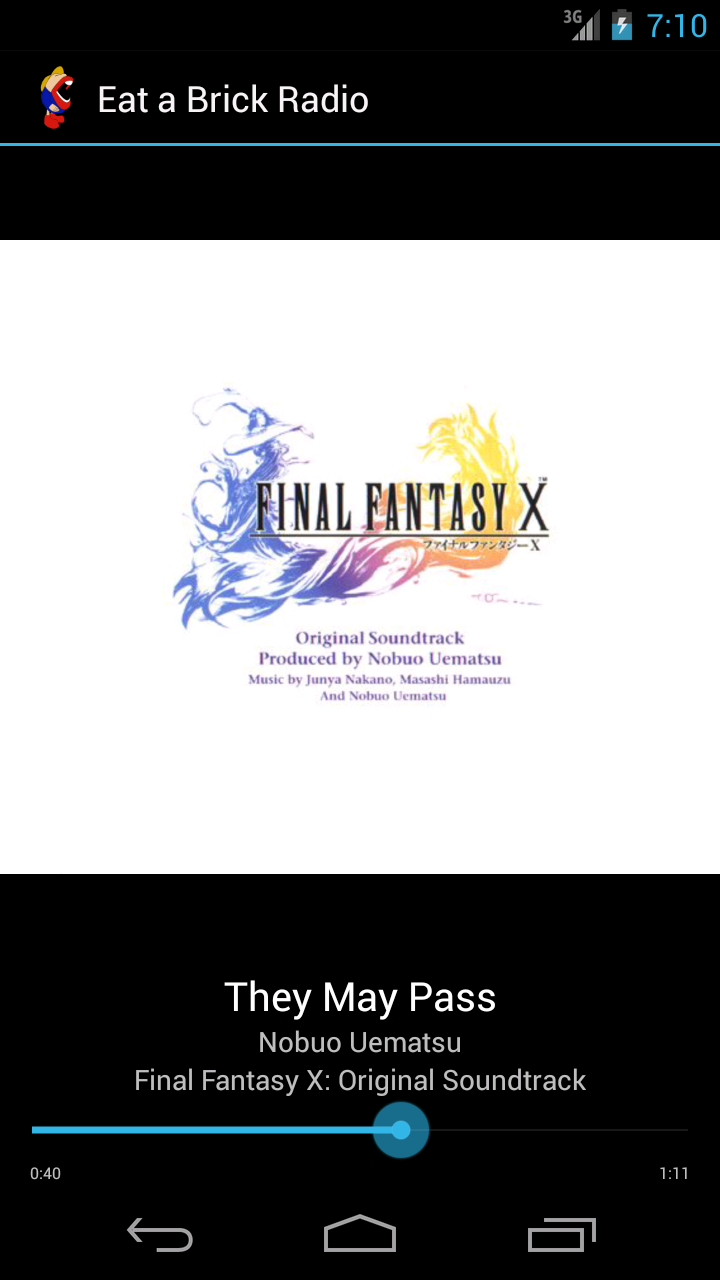
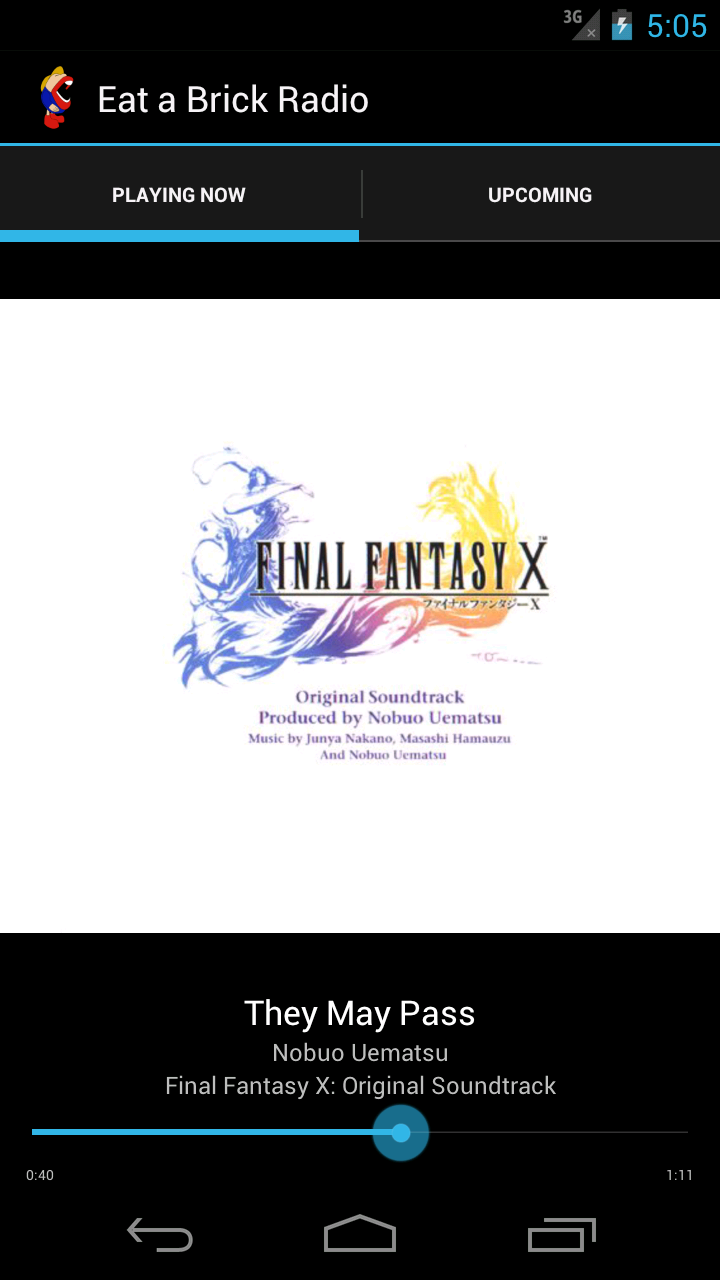
use fragments, implement second tab

diff --git a/src/org/eatabrick/radio/MainActivity.java b/src/org/eatabrick/radio/MainActivity.java
@@ -1,42 +1,38 @@
 package org.eatabrick.radio;
 
 import android.os.Bundle;
-import android.support.v4.app.FragmentTransaction;
 import android.util.Log;
-import android.widget.ImageView;
-import android.widget.SeekBar;
-import android.widget.TextView;
-import com.actionbarsherlock.app.ActionBar.Tab;
 import com.actionbarsherlock.app.ActionBar;
-import com.actionbarsherlock.app.SherlockActivity;
+import com.actionbarsherlock.app.SherlockFragmentActivity;
 
-public class MainActivity extends SherlockActivity implements ActionBar.TabListener {
-  private static final String TAG = "NowPlayingActivity";
+public class MainActivity extends SherlockFragmentActivity {
+  private static final String TAG = "MainActivity";
+
 
   @Override public void onCreate(Bundle savedInstanceState) {
     super.onCreate(savedInstanceState);
-
-    setContentView(R.layout.playing);
-
-    ((SeekBar) findViewById(R.id.seek)).setEnabled(false);
 
     getSupportActionBar().setNavigationMode(ActionBar.NAVIGATION_MODE_TABS);
 
     ActionBar.Tab tab;
 
-    tab = getSupportActionBar().newTab().setTabListener(this).setText(getString(R.string.tab_now_playing));
+    tab = getSupportActionBar().newTab();
+    tab.setText(getString(R.string.tab_now_playing));
+    tab.setTabListener(new TabListener<NowPlayingFragment> (this, "playing", NowPlayingFragment.class));
     getSupportActionBar().addTab(tab);
+
+    tab = getSupportActionBar().newTab();
+    tab.setText(getString(R.string.tab_play_queue));
+    tab.setTabListener(new TabListener<QueueFragment> (this, "queue", QueueFragment.class));
+    getSupportActionBar().addTab(tab);
+
+    if (savedInstanceState != null) {
+      getSupportActionBar().setSelectedNavigationItem(savedInstanceState.getInt("selectedTab"));
+    }
   }
 
-  @Override public void onTabReselected(Tab tab, FragmentTransaction trans) {
-    Log.d(TAG, "Tab reselected: " + tab.getText());
-  }
-
-  @Override public void onTabSelected(Tab tab, FragmentTransaction trans) {
-    Log.d(TAG, "Tab selected: " + tab.getText());
-  }
-
-  @Override public void onTabUnselected(Tab tab, FragmentTransaction trans) {
-    Log.d(TAG, "Tab unselected: " + tab.getText());
+  @Override protected void onSaveInstanceState(Bundle outState) {
+    super.onSaveInstanceState(outState);
+    outState.putInt("selectedTab", getSupportActionBar().getSelectedTab().getPosition());
   }
 }

diff --git a/src/org/eatabrick/radio/TabListener.java b/src/org/eatabrick/radio/TabListener.java
@@ -1,0 +1,60 @@
+package org.eatabrick.radio;
+
+import android.support.v4.app.Fragment;
+import android.support.v4.app.FragmentManager;
+import android.support.v4.app.FragmentTransaction;
+import android.util.Log;
+import com.actionbarsherlock.app.ActionBar.Tab;
+import com.actionbarsherlock.app.ActionBar;
+import com.actionbarsherlock.app.SherlockFragment;
+import com.actionbarsherlock.app.SherlockFragmentActivity;
+
+public class TabListener<T extends Fragment> implements ActionBar.TabListener {
+  private static final String TAG = "TabListener";
+  private Fragment fragment;
+  private final SherlockFragmentActivity activity;
+  private final String tag;
+  private final Class<T> klass;
+
+  public TabListener(SherlockFragmentActivity activity, String tag, Class<T> klass) {
+    this.activity = activity;
+    this.tag = tag;
+    this.klass = klass;
+  }
+
+  @Override public void onTabReselected(Tab tab, FragmentTransaction trans) {
+    Log.d(TAG, "Tab reselected: " + tab.getText());
+  }
+
+  @Override public void onTabSelected(Tab tab, FragmentTransaction trans) {
+    Log.d(TAG, "Tab selected: " + tab.getText());
+
+    // for some reason the support library gives a garbage transaction
+    if (trans == null) {
+      trans = ((FragmentManager) activity.getSupportFragmentManager()).beginTransaction();
+      trans.commit();
+    }
+
+    if (fragment == null) {
+      fragment = SherlockFragment.instantiate(activity, klass.getName());
+      fragment.setRetainInstance(false);
+      trans.add(android.R.id.content, fragment, tag);
+    } else {
+      trans.attach(fragment);
+    }
+  }
+
+  @Override public void onTabUnselected(Tab tab, FragmentTransaction trans) {
+    Log.d(TAG, "Tab unselected: " + tab.getText());
+
+    // for some reason the support library gives a garbage transaction
+    if (trans == null) {
+      trans = ((FragmentManager) activity.getSupportFragmentManager()).beginTransaction();
+      trans.commit();
+    }
+
+    if (fragment != null) {
+      trans.detach(fragment);
+    }
+  }
+}

diff --git a/src/org/eatabrick/radio/QueueFragment.java b/src/org/eatabrick/radio/QueueFragment.java
@@ -1,0 +1,34 @@
+package org.eatabrick.radio;
+
+import android.app.Activity;
+import android.os.Bundle;
+import android.support.v4.app.FragmentTransaction;
+import android.util.Log;
+import android.view.LayoutInflater;
+import android.view.View;
+import android.view.ViewGroup;
+import android.widget.ArrayAdapter;
+import android.widget.ImageView;
+import android.widget.SeekBar;
+import android.widget.TextView;
+import com.actionbarsherlock.app.SherlockListFragment;
+
+public class QueueFragment extends SherlockListFragment {
+  private static final String TAG = "QueueFragment";
+
+  private static final class Radio {
+    public static final String[] TITLES = {
+      "Rockman 4: All Stage Clear",
+      "Wish Upon a Star ~ Broken Promise",
+      "Fort Condor",
+      "Breath of Fire",
+      "Fairy's Doorway"
+    };
+  }
+
+  @Override public void onActivityCreated(Bundle savedInstanceState) {
+    super.onActivityCreated(savedInstanceState);
+
+    setListAdapter(new ArrayAdapter<String>(getActivity(), android.R.layout.simple_list_item_1, Radio.TITLES));
+  }
+}

diff --git a/src/org/eatabrick/radio/NowPlayingFragment.java b/src/org/eatabrick/radio/NowPlayingFragment.java
@@ -1,0 +1,21 @@
+package org.eatabrick.radio;
+
+import android.app.Activity;
+import android.os.Bundle;
+import android.support.v4.app.FragmentTransaction;
+import android.util.Log;
+import android.view.LayoutInflater;
+import android.view.View;
+import android.view.ViewGroup;
+import android.widget.ImageView;
+import android.widget.SeekBar;
+import android.widget.TextView;
+import com.actionbarsherlock.app.SherlockFragment;
+
+public class NowPlayingFragment extends SherlockFragment {
+  private static final String TAG = "NowPlayingFragment";
+
+  @Override public View onCreateView(LayoutInflater inflater, ViewGroup container, Bundle savedInstanceState) {
+    return inflater.inflate(R.layout.playing, container, false);
+  }
+}
